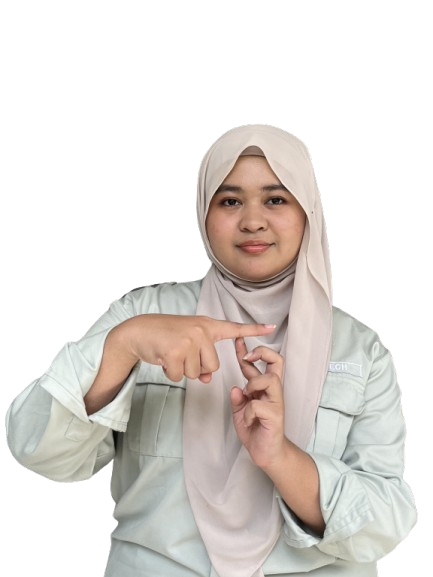
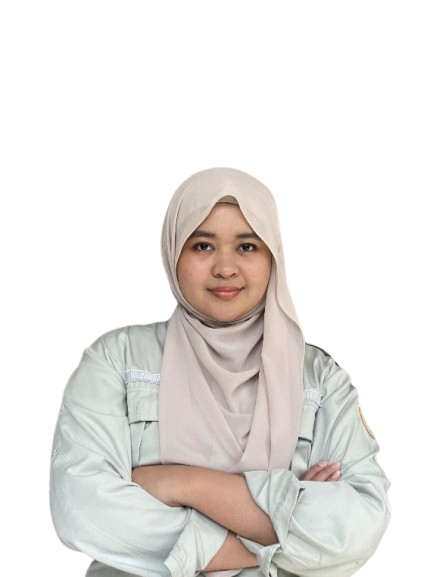
sosmas

diff --git a/src/components/nexus/grid/audkesgrid.jsx b/src/components/nexus/grid/audkesgrid.jsx
@@ -10,6 +10,7 @@ import Fadhi from "../../../assets/dinas nexus/staff release/audkes/fadhi.png";
 import Farhan from "../../../assets/dinas nexus/staff release/audkes/farhan.png";
 import Sasya from "../../../assets/dinas nexus/staff release/audkes/sasya.png";
 import Audkes from "../../../assets/dinas nexus/logo/audkes.png";
+import { Github } from "lucide-react";
 
 const gridData = [
   {
@@ -40,6 +41,7 @@ const gridData = [
     border: "border-green-500",
     instagram: "https://www.instagram.com/_friiddd/",
     linkedin: "https://www.linkedin.com/in/williamhgates/",
+    github: "https://github.com/Ambaturidd123",
   },
 
   {
@@ -168,6 +170,22 @@ const AudkesGrid = () => {
                       }}
                     />
                   </a>
+                  {/* GitHub SVG icon untuk Naufal */}
+                  {item.github && (
+                    <a
+                      href={item.github}
+                      target="_blank"
+                      rel="noopener noreferrer"
+                    >
+                      <svg
+                        className="w-6 h-6 transition-transform duration-200 hover:scale-125 fill-gray-700 hover:fill-black"
+                        viewBox="0 0 24 24"
+                        xmlns="http://www.w3.org/2000/svg"
+                      >
+                        <path d="M12 0C5.374 0 0 5.373 0 12 0 17.302 3.438 21.8 8.207 23.387c.599.111.793-.261.793-.577v-2.234c-3.338.726-4.033-1.416-4.033-1.416-.546-1.387-1.333-1.756-1.333-1.756-1.089-.745.083-.729.083-.729 1.205.084 1.839 1.237 1.839 1.237 1.07 1.834 2.807 1.304 3.492.997.107-.775.418-1.305.762-1.604-2.665-.305-5.467-1.334-5.467-5.931 0-1.311.469-2.381 1.236-3.221-.124-.303-.535-1.524.117-3.176 0 0 1.008-.322 3.301 1.23A11.509 11.509 0 0112 5.803c1.02.005 2.047.138 3.006.404 2.291-1.552 3.297-1.23 3.297-1.23.653 1.653.242 2.874.118 3.176.77.84 1.235 1.911 1.235 3.221 0 4.609-2.807 5.624-5.479 5.921.43.372.823 1.102.823 2.222v3.293c0 .319.192.694.801.576C20.566 21.797 24 17.3 24 12c0-6.627-5.373-12-12-12z" />
+                      </svg>
+                    </a>
+                  )}
                 </div>
               </div>
             </div>

diff --git a/src/components/nexus/grid/adkesmagrid.jsx b/src/components/nexus/grid/adkesmagrid.jsx
@@ -13,6 +13,7 @@ import Adkesma from "../../../assets/dinas nexus/logo/adkesma.png";
 
 const gridData = [
   {
+    
     img: Bendin,
     title: "Bendahara Dinas",
     nama: "Alya Putri Helda",
@@ -20,6 +21,7 @@ const gridData = [
     border: "border-green-500",
     instagram: "https://www.instagram.com/ael/",
     linkedin: "https://www.linkedin.com/in/alya-putri-helda-67653b320/",
+    github: "https://github.com/staargzing",
   },
   {
     img: Sekdin,
@@ -161,6 +163,22 @@ export const Adkesmagrid = () => {
                       }}
                     />
                   </a>
+                  {/* GitHub SVG icon untuk Naufal */}
+                  {item.github && (
+                    <a
+                      href={item.github}
+                      target="_blank"
+                      rel="noopener noreferrer"
+                    >
+                      <svg
+                        className="w-6 h-6 transition-transform duration-200 hover:scale-125 fill-gray-700 hover:fill-black"
+                        viewBox="0 0 24 24"
+                        xmlns="http://www.w3.org/2000/svg"
+                      >
+                        <path d="M12 0C5.374 0 0 5.373 0 12 0 17.302 3.438 21.8 8.207 23.387c.599.111.793-.261.793-.577v-2.234c-3.338.726-4.033-1.416-4.033-1.416-.546-1.387-1.333-1.756-1.333-1.756-1.089-.745.083-.729.083-.729 1.205.084 1.839 1.237 1.839 1.237 1.07 1.834 2.807 1.304 3.492.997.107-.775.418-1.305.762-1.604-2.665-.305-5.467-1.334-5.467-5.931 0-1.311.469-2.381 1.236-3.221-.124-.303-.535-1.524.117-3.176 0 0 1.008-.322 3.301 1.23A11.509 11.509 0 0112 5.803c1.02.005 2.047.138 3.006.404 2.291-1.552 3.297-1.23 3.297-1.23.653 1.653.242 2.874.118 3.176.77.84 1.235 1.911 1.235 3.221 0 4.609-2.807 5.624-5.479 5.921.43.372.823 1.102.823 2.222v3.293c0 .319.192.694.801.576C20.566 21.797 24 17.3 24 12c0-6.627-5.373-12-12-12z" />
+                      </svg>
+                    </a>
+                  )}
                 </div>
               </div>
             </div>

diff --git a/src/components/nexus/grid/eksternalgrid.jsx b/src/components/nexus/grid/eksternalgrid.jsx
@@ -52,7 +52,7 @@ const gridData = [
   {
     img: Rapip,
     title: "Staff Dinas",
-    nama: "Naufal Rafii Irwan",
+    nama: "Naufal Rafiif Irwan",
     desc: "Teknik Komputer 2023",
     border: "border-purple-500",
     instagram: "https://www.instagram.com/rapip_n/",
@@ -87,6 +87,7 @@ const gridData = [
     border: "border-pink-500",
     instagram: "https://www.instagram.com/dzakiirra/",
     linkedin: "https://www.linkedin.com/in/dzakira-hapsarini-060b0231b/",
+    github: "https://github.com/Dzakira23",
   },
 ];
 

diff --git a/src/components/nexus/grid/sosmaslinggrid.jsx b/src/components/nexus/grid/sosmaslinggrid.jsx
@@ -31,7 +31,7 @@ const gridData = [
     img: Kadin,
     title: "Kepala Dinas",
     nama: "Nori Dwi Yulianti",
-    desc: "Sistem Informasi 2023",
+    desc: "Teknik Komputer 2023",
     border: "border-red-500",
     instagram: "https://www.instagram.com/_nori.d.y_/",
     linkedin: "https://www.linkedin.com/in/shaza-nurul-123456789/",
